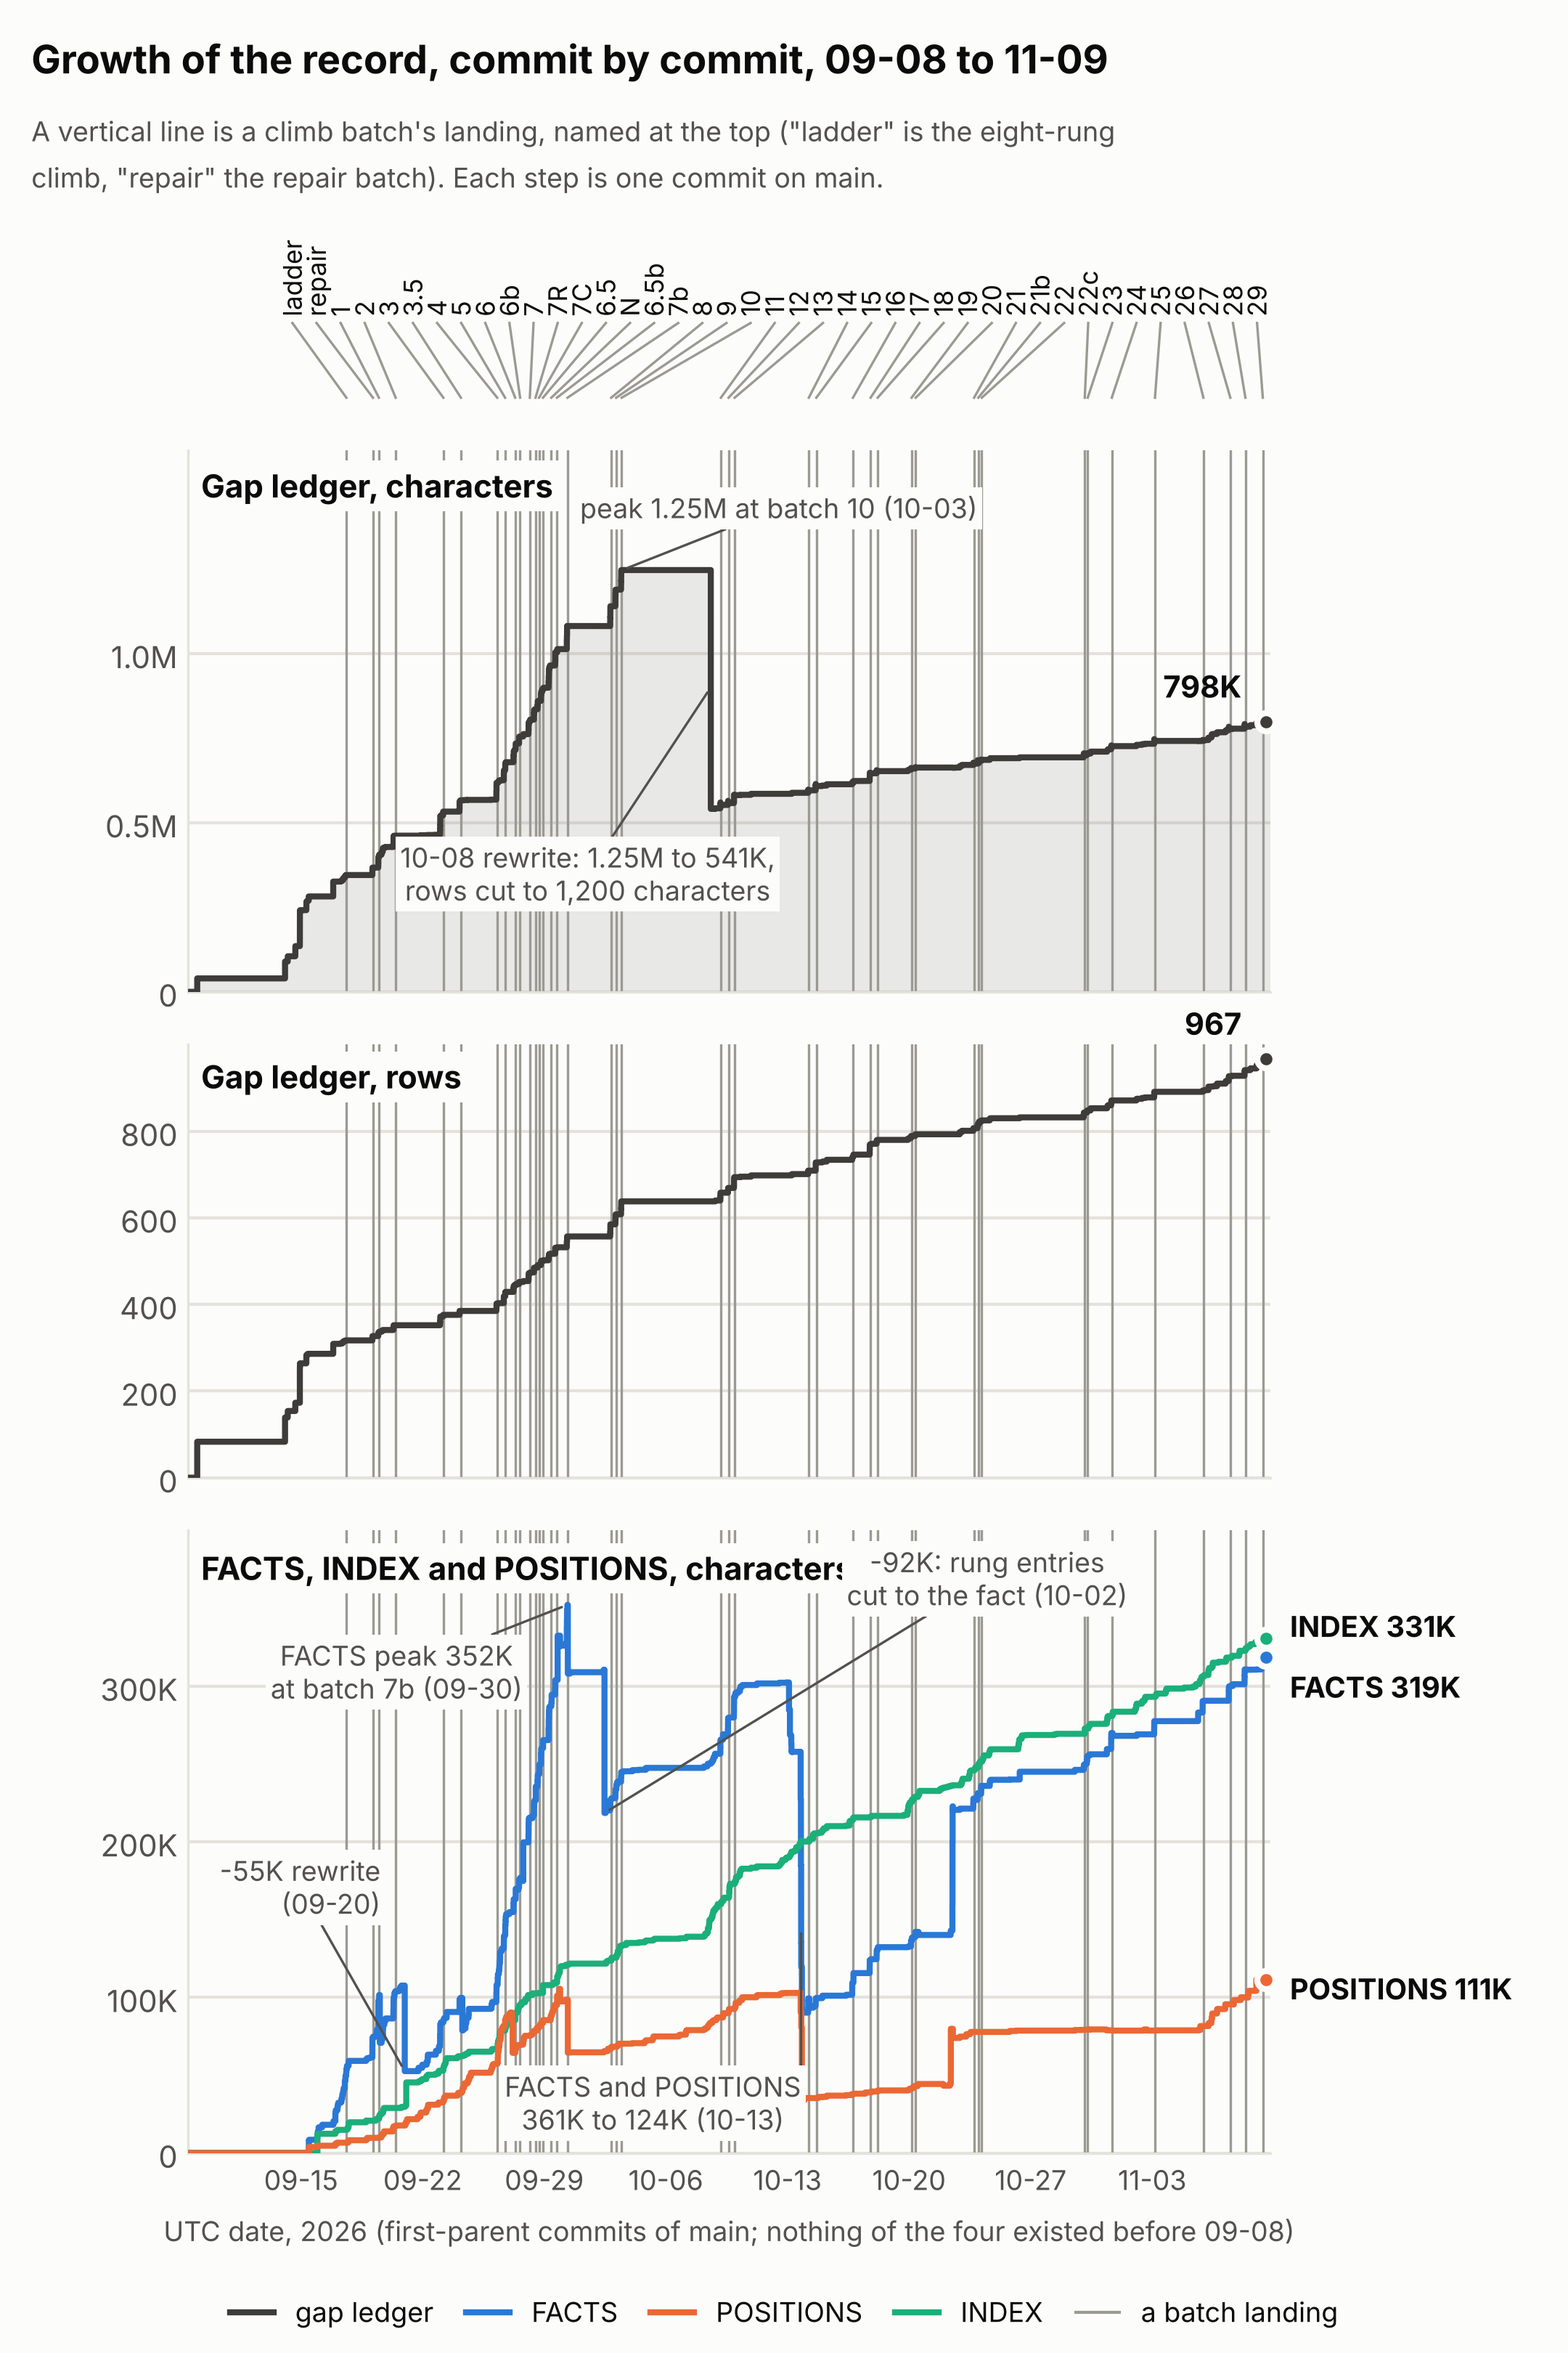
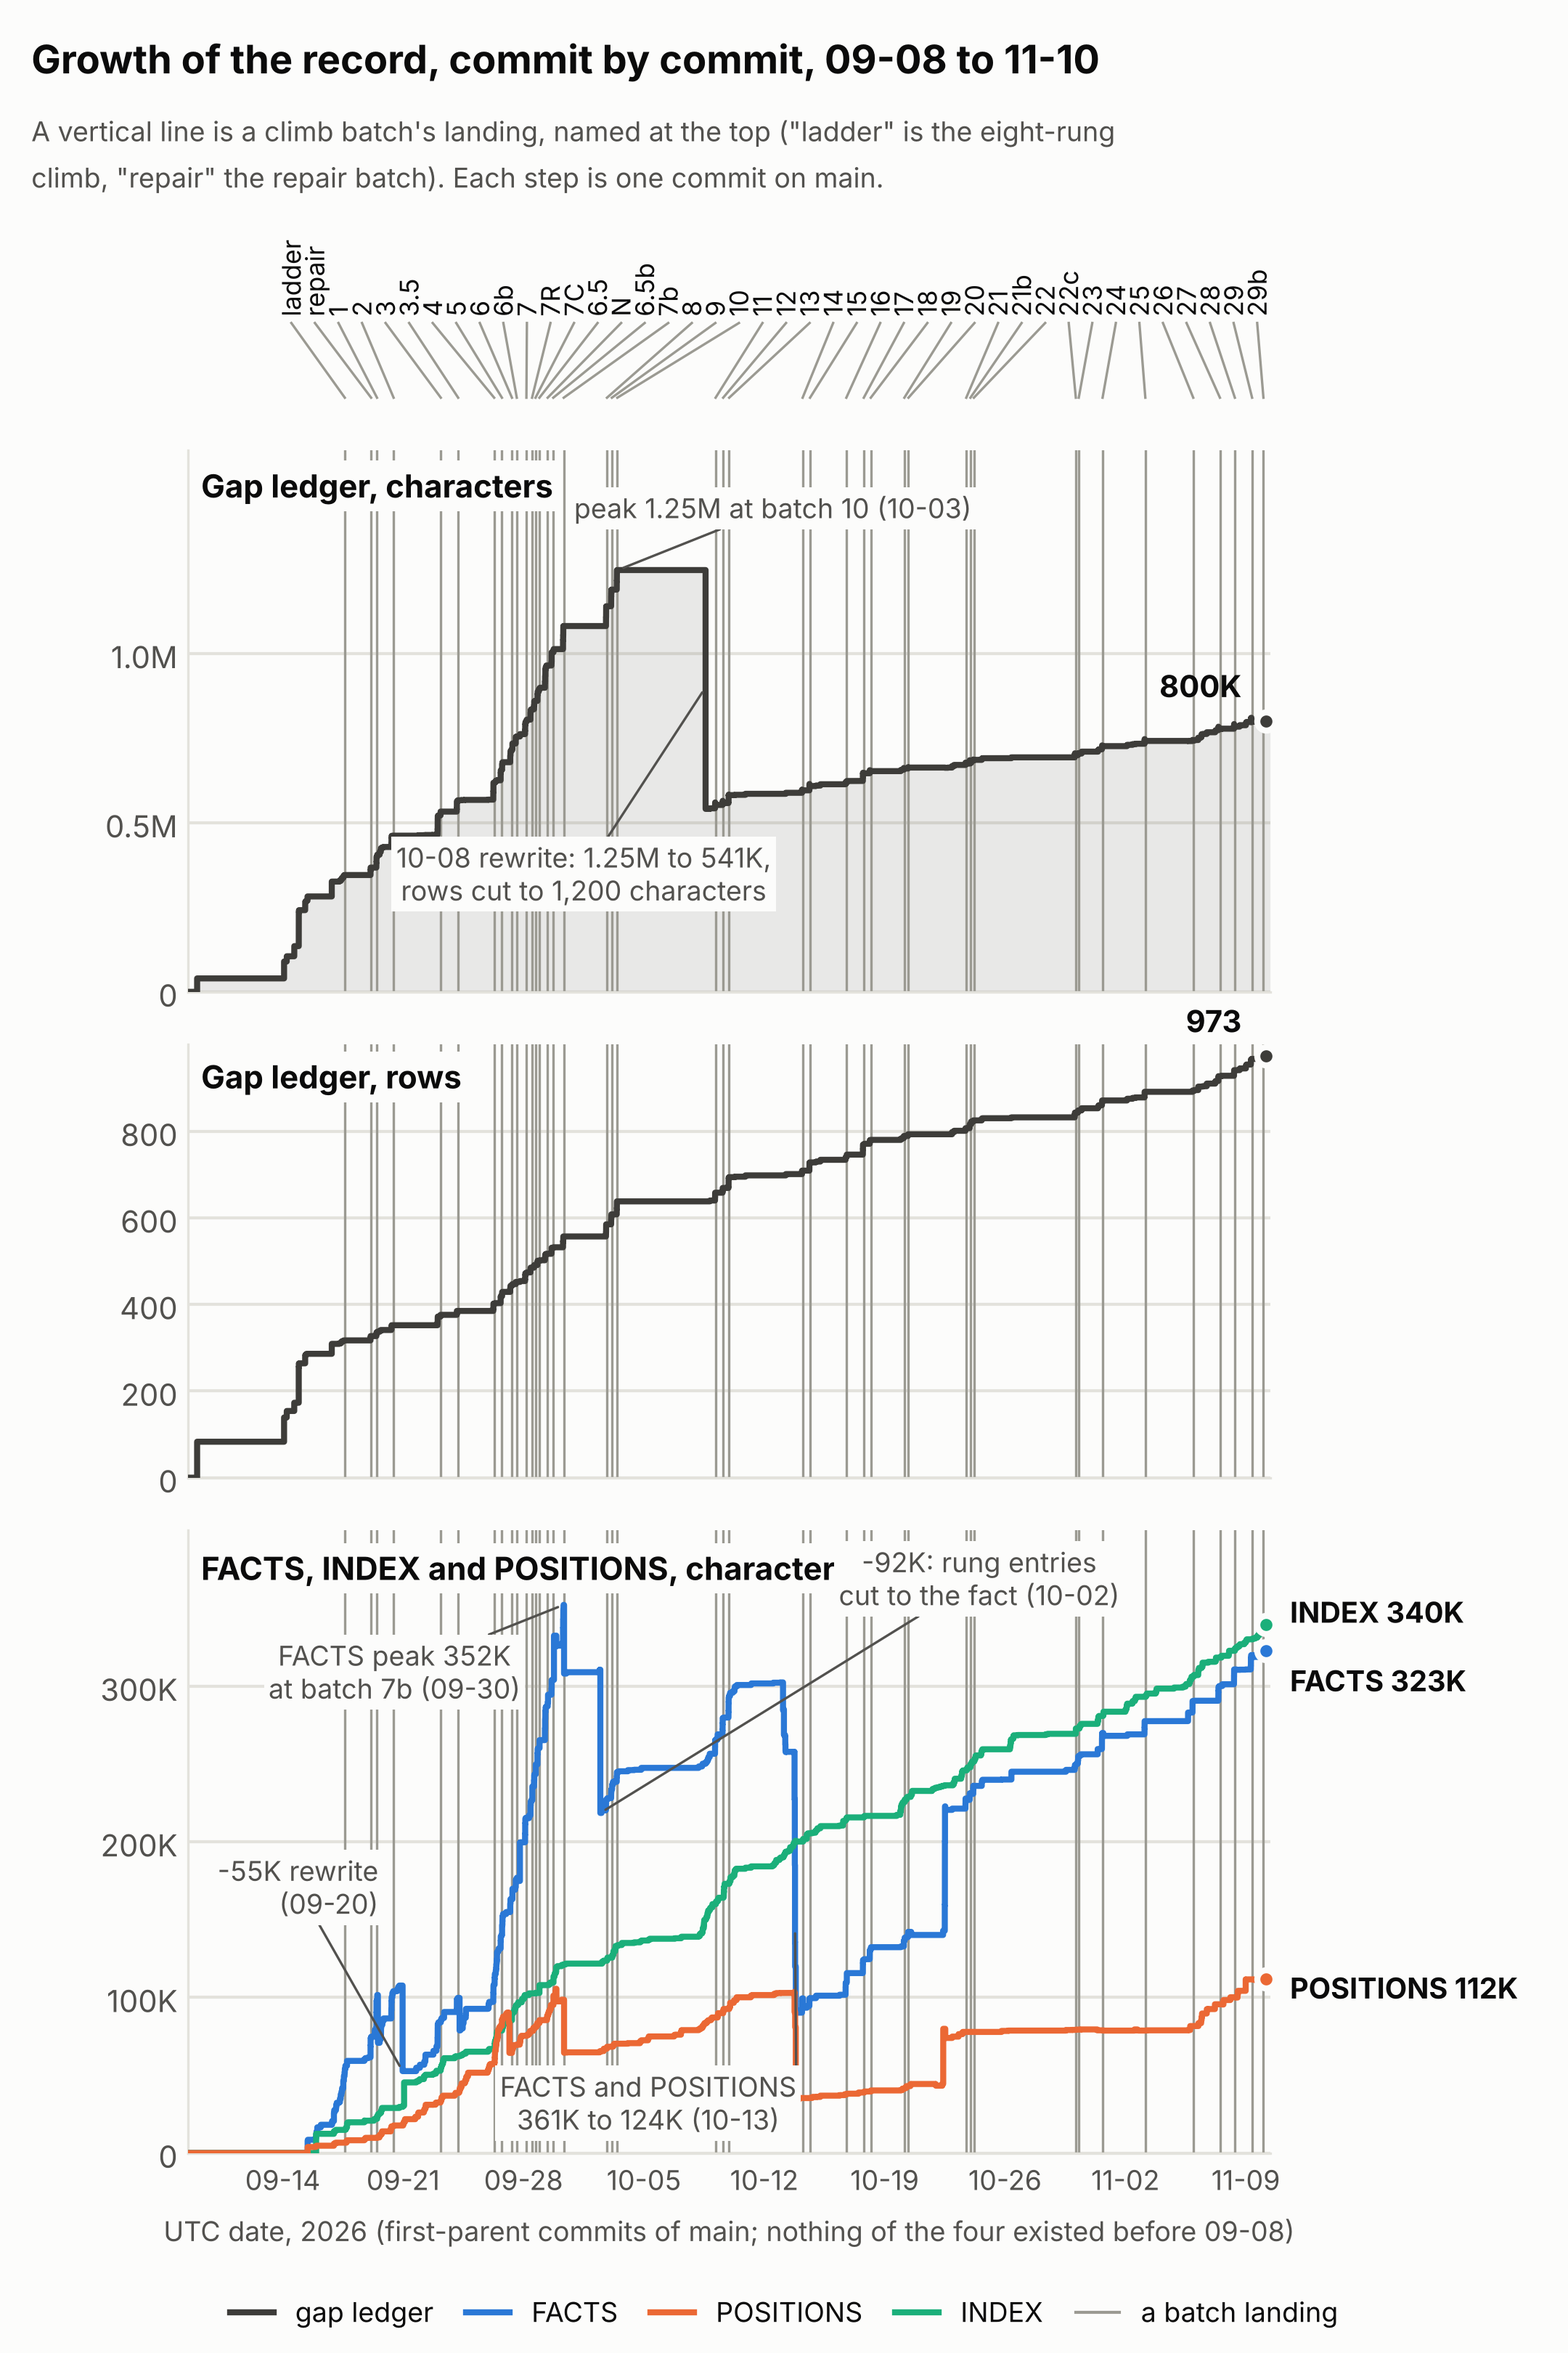
Revival page: where it stands at the landing of climb batch 29b, the record chart regenerated
By the climb batch 29b landing workflow.

Claude-Session: https://claude.ai/code/session_01AmiXNpJxQ6TBwec4vJZHDB

diff --git a/docs/revival-story/index.html b/docs/revival-story/index.html
@@ -201,7 +201,7 @@ details.words dl.gloss dd { margin-left: 1em; }
 <p>A script rewrites the block below at each landing, from the plan and the gate. The rest of the page changes only when a phase ends.</p>
 <div class="intro">
 <!-- stand:begin -->
-<p><strong>Where it stands, at the landing of batch 29 on 9 November 2026</strong></p>
+<p><strong>Where it stands, at the landing of batch 29b on 10 November 2026</strong></p>
 <ul>
 <li><strong>Phase:</strong> 4 of 6, which ends with the switch-over, since 30 October.</li>
 <li><strong>Checker count:</strong> 0.</li>
@@ -302,7 +302,7 @@ details.words dl.gloss dd { margin-left: 1em; }
 <section id="the-record" class="part">
 <h2>7. The record</h2>
 <p>The record is the project's notes, kept in the repository beside the team's code. Its main parts are the gap ledger (section 5), the list of facts, the list of the curator's decisions, and an index of all notes. An agent reads the parts its task needs before it starts, so no agent works out again what the record holds.</p>
-<figure><img src="record-growth.png" alt="The gap ledger&#x27;s characters and rows, and FACTS, POSITIONS and INDEX, commit by commit from 09-08 to 11-09, with each batch&#x27;s landing marked" width="1080" height="1620"></figure>
+<figure><img src="record-growth.png" alt="The gap ledger&#x27;s characters and rows, and FACTS, POSITIONS and INDEX, commit by commit from 09-08 to 11-10, with each batch&#x27;s landing marked" width="1080" height="1620"></figure>
 <p>The chart has three panels on one time axis, with a vertical line at each batch's landing. They show the ledger's characters, its rows, and the sizes of the facts, the decisions and the index. The ledger grows mostly while batches run, and the index by one line for each new note. Each sharp fall is a rewrite that shortened the entries, with the earlier text kept in history.</p>
 </section>
 <footer>

diff --git a/explorations/coordinator/process-engineering/revival-story.html b/explorations/coordinator/process-engineering/revival-story.html
@@ -194,7 +194,7 @@ details.words dl.gloss dd { margin-left: 1em; }
 <p>A script rewrites the block below at each landing, from the plan and the gate. The rest of the page changes only when a phase ends.</p>
 <div class="intro">
 <!-- stand:begin -->
-<p><strong>Where it stands, at the landing of batch 29 on 9 November 2026</strong></p>
+<p><strong>Where it stands, at the landing of batch 29b on 10 November 2026</strong></p>
 <ul>
 <li><strong>Phase:</strong> 4 of 6, which ends with the switch-over, since 30 October.</li>
 <li><strong>Checker count:</strong> 0.</li>
@@ -295,7 +295,7 @@ details.words dl.gloss dd { margin-left: 1em; }
 <section id="the-record" class="part">
 <h2>7. The record</h2>
 <p>The record is the project's notes, kept in the repository beside the team's code. Its main parts are the gap ledger (section 5), the list of facts, the list of the curator's decisions, and an index of all notes. An agent reads the parts its task needs before it starts, so no agent works out again what the record holds.</p>
-<figure><img src="record-growth.png" alt="The gap ledger&#x27;s characters and rows, and FACTS, POSITIONS and INDEX, commit by commit from 09-08 to 11-09, with each batch&#x27;s landing marked" width="1080" height="1620"></figure>
+<figure><img src="record-growth.png" alt="The gap ledger&#x27;s characters and rows, and FACTS, POSITIONS and INDEX, commit by commit from 09-08 to 11-10, with each batch&#x27;s landing marked" width="1080" height="1620"></figure>
 <p>The chart has three panels on one time axis, with a vertical line at each batch's landing. They show the ledger's characters, its rows, and the sizes of the facts, the decisions and the index. The ledger grows mostly while batches run, and the index by one line for each new note. Each sharp fall is a rewrite that shortened the entries, with the earlier text kept in history.</p>
 </section>
 <footer>

diff --git a/explorations/coordinator/process-engineering/revival-story.md b/explorations/coordinator/process-engineering/revival-story.md
@@ -124,7 +124,7 @@ A reading is one interpretation of a rule where the specification's text allows 
 A script rewrites the block below at each landing, from the plan and the gate. The rest of the page changes only when a phase ends.
 
 <!-- stand:begin -->
-**Where it stands, at the landing of batch 29 on 9 November 2026**
+**Where it stands, at the landing of batch 29b on 10 November 2026**
 
 - **Phase:** 4 of 6, which ends with the switch-over, since 30 October.
 - **Checker count:** 0.
